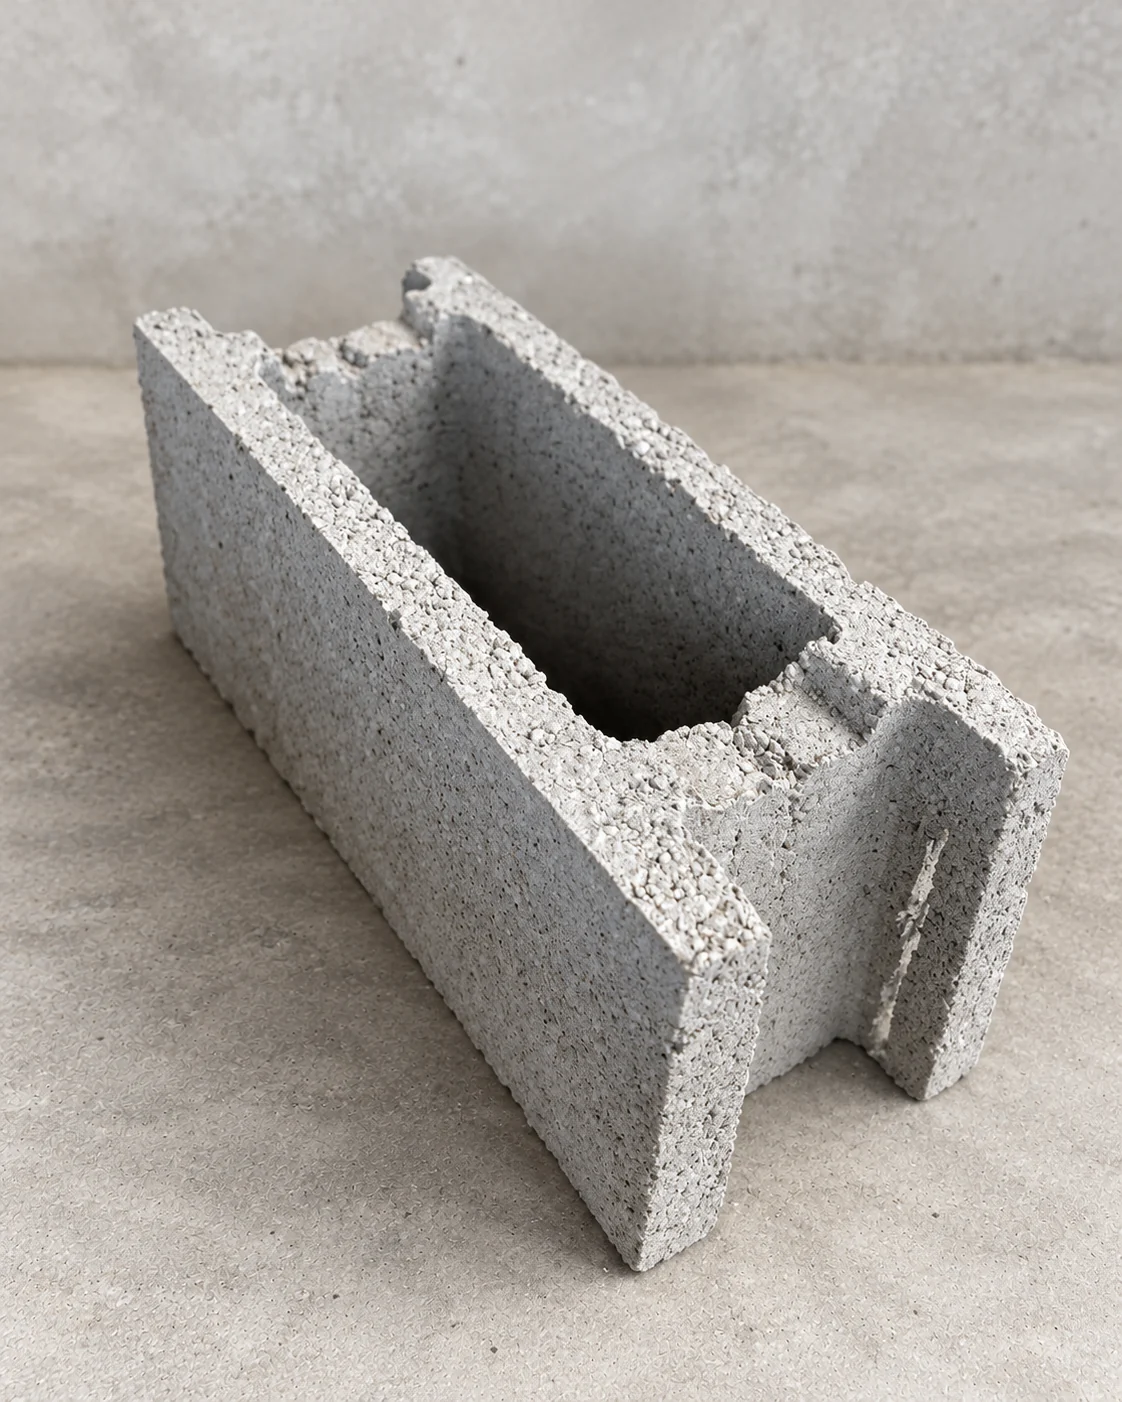
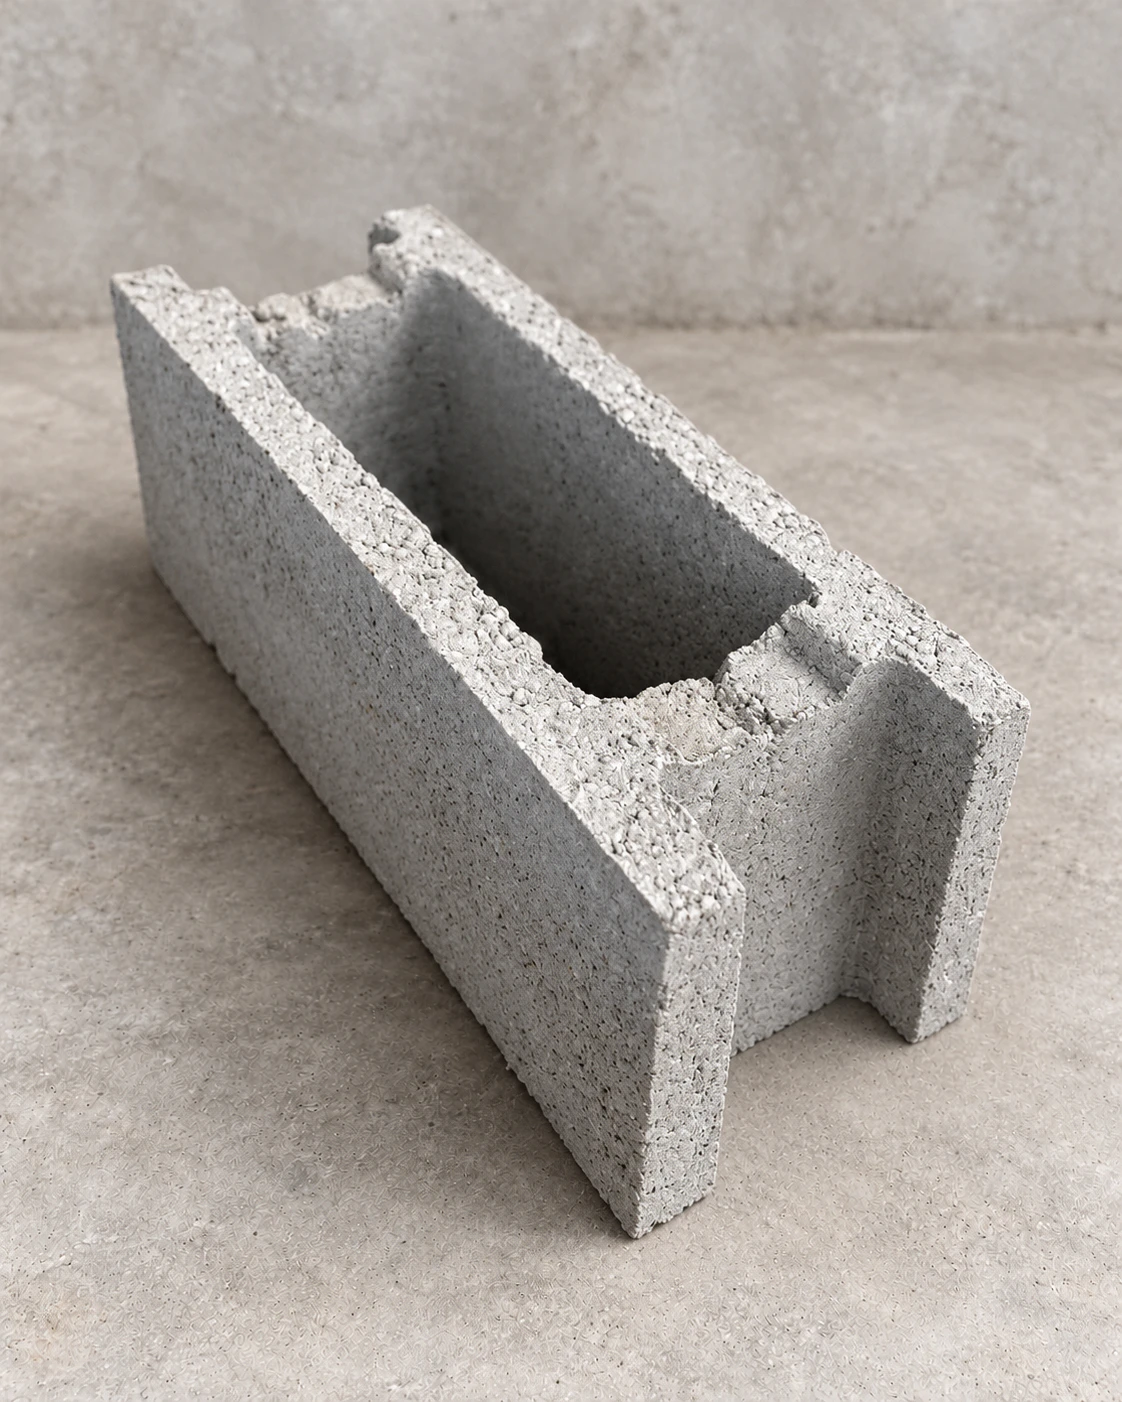
feat: uniformizeaza fotografiile si prezentarea boltarilor

diff --git a/styles.css b/styles.css
@@ -514,19 +514,19 @@ h3 {
   gap: 1rem;
 }
 
-.masonry-options,
-.specialty-products {
+.masonry-options {
   display: grid;
 }
 
 .masonry-options {
-  gap: 1.5rem;
+  grid-template-columns: repeat(2, minmax(0, 1fr));
+  gap: 1.5rem 0.75rem;
 }
 
 .masonry-option {
   margin: 0;
-  padding-bottom: 1.5rem;
-  border-bottom: 1px solid var(--line);
+  padding-bottom: 0;
+  border-bottom: 0;
 }
 
 .masonry-option:last-child {
@@ -548,8 +548,7 @@ h3 {
   object-position: center;
 }
 
-.masonry-option figcaption,
-.product-spec {
+.masonry-option figcaption {
   display: flex;
   margin: 0;
   padding-top: 0.9rem;
@@ -558,13 +557,11 @@ h3 {
   gap: 1rem;
 }
 
-.masonry-option figcaption strong,
-.product-spec strong {
+.masonry-option figcaption strong {
   font-variant-numeric: tabular-nums;
 }
 
-.masonry-option figcaption span,
-.product-spec span {
+.masonry-option figcaption span {
   color: var(--charcoal-soft);
   font-size: 0.85rem;
   text-align: right;
@@ -582,80 +579,14 @@ h3 {
   text-align: center;
 }
 
-.specialty-products {
-  border-bottom: 1px solid var(--line);
-}
-
-.product-visual-combined .product-spec {
-  width: 100%;
-  border-top: 1px solid var(--line);
-}
-
-.product-visual {
-  display: grid;
-  padding-block: 2rem;
-  border-bottom: 1px solid var(--line);
-  gap: 1.5rem;
-}
-
-.product-visual:last-child {
-  border-bottom: 0;
-}
-
-.product-visual > h3 {
-  margin: 0;
-}
-
-.product-visual .product-copy {
-  display: flex;
-  flex-direction: column;
-  align-items: flex-start;
-}
-
-.product-visual .text-link {
-  margin-top: 1rem;
-}
-
 .product-copy h3 {
   margin-bottom: 0.65rem;
 }
 
-.product-copy > p:not(.product-spec),
-.availability {
+.product-copy > p {
   max-width: 42rem;
   margin-bottom: 0;
   color: var(--charcoal-soft);
-}
-
-.dimensions {
-  display: grid;
-  margin: 0;
-  padding: 0;
-  list-style: none;
-}
-
-.dimensions li {
-  display: flex;
-  min-height: 3.4rem;
-  padding-block: 0.75rem;
-  align-items: center;
-  justify-content: space-between;
-  border-bottom: 1px solid var(--line);
-  gap: 1rem;
-}
-
-.dimensions li:last-child {
-  border-bottom: 0;
-}
-
-.dimensions strong {
-  font-variant-numeric: tabular-nums;
-}
-
-.dimensions span {
-  color: var(--charcoal-soft);
-  font-size: 0.85rem;
-  text-align: right;
 }
 
 .text-link {
@@ -1172,50 +1103,6 @@ h3 {
 
   .masonry-option:nth-child(5) {
     grid-column: 4 / span 2;
-  }
-
-  .specialty-products {
-    grid-template-columns: repeat(2, minmax(0, 1fr));
-  }
-
-  .product-visual {
-    padding: 2.5rem 2rem 2.5rem 0;
-    border-right: 1px solid var(--line);
-    border-bottom: 0;
-  }
-
-  .product-visual + .product-visual {
-    padding-right: 0;
-    padding-left: 2rem;
-    border-right: 0;
-  }
-
-  .product-visual-combined {
-    grid-column: 1 / -1;
-    grid-template-columns: minmax(0, calc((100% - 3rem) / 3)) minmax(0, 1fr);
-    align-items: center;
-    padding-right: 0;
-    border-right: 0;
-  }
-
-  .product-visual .product-photo img {
-    aspect-ratio: 4 / 3;
-  }
-
-  .product-visual-combined .product-photo img {
-    aspect-ratio: 3 / 4;
-  }
-
-  .product-visual > .product-photo {
-    order: 1;
-  }
-
-  .product-visual > h3 {
-    order: 2;
-  }
-
-  .product-visual > .product-copy {
-    order: 3;
   }
 
   .quality-strip {

diff --git a/index.html b/index.html
@@ -192,20 +192,30 @@
             </div>
           </article>
 
-          <div class="specialty-products">
-            <article class="product-visual product-visual-combined">
-              <div class="product-photo">
-                <img src="/assets/images/boltar-stalp.webp" width="1122" height="1402" alt="Bolțar cu un gol, disponibil în lungimi diferite pentru stâlpi și fundație" loading="lazy" decoding="async" />
-              </div>
+          <article class="product-group product-group-foundation">
+            <div class="product-group-head">
               <div class="product-copy">
                 <h3>Bolțari pentru stâlpi și fundație</h3>
-                <p>Același tip de bolțar este disponibil în lungimi diferite: mai scurt pentru stâlpi și mai lung pentru fundație. Confirmăm dimensiunile și disponibilitatea înainte de comandă.</p>
-                <p class="product-spec"><strong>Stâlpi</strong><span>Variante mai scurte</span></p>
-                <p class="product-spec"><strong>Fundație</strong><span>Variante mai lungi</span></p>
-                <a class="text-link" href="#oferta" data-product="Bolțari pentru stâlpi și fundație">Verifică variantele</a>
+                <p>Variante pentru realizarea stâlpilor și a lucrărilor de fundație.</p>
               </div>
-            </article>
-          </div>
+              <a class="text-link" href="#oferta" data-product="Bolțari pentru stâlpi și fundație">Solicită preț</a>
+            </div>
+
+            <div class="masonry-options foundation-options">
+              <figure class="masonry-option">
+                <div class="product-photo">
+                  <img src="/assets/images/boltar-stalp.webp" width="1122" height="1402" alt="Bolțar de fundație 20 × 20 × 48 cm, cu un gol" loading="lazy" decoding="async" />
+                </div>
+                <figcaption><strong>20 × 20 × 48 cm</strong><span>Fundație</span></figcaption>
+              </figure>
+              <figure class="masonry-option">
+                <div class="product-photo">
+                  <img src="/assets/images/boltar-stalp-25-25-20.webp" width="1122" height="1402" alt="Bolțar pentru stâlp 25 × 25 × 20 cm, cu un gol pătrat" loading="lazy" decoding="async" />
+                </div>
+                <figcaption><strong>25 × 25 × 20 cm</strong><span>Stâlp</span></figcaption>
+              </figure>
+            </div>
+          </article>
 
           <article class="materials-row">
             <div class="product-copy">
